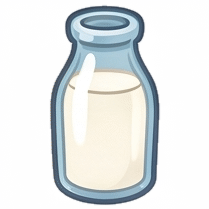
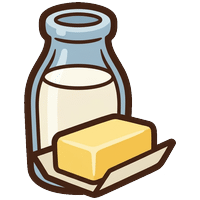
His butter & milk, everywhere

diff --git a/src/ui/stage.js b/src/ui/stage.js
@@ -42,7 +42,7 @@ const AR = { N: "↑", S: "↓", E: "→", W: "←" };
 //   YYYY.MM.DD.N  —  N is the Nth build published that day, bumped by hand exactly as the letter was.
 //
 // Staging appends its own suffix at publish time and never here — see scripts/deploy-staging.sh.
-const PP4_STAMP = "2026.09.13.3-staging@d05187bc";
+const PP4_STAMP = "2026.09.13.4-staging@b49b798f";
 
 /* HIDE THE WHOLE STAGE LAYER — T-12 (Wyatt, 2026-08-26, with a screenshot).
    "They are successfully brought back to port (the homepage) BUT there is a bug -- the homepage
